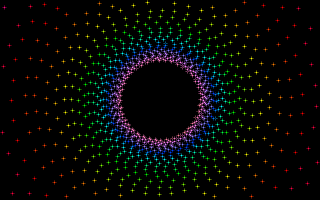
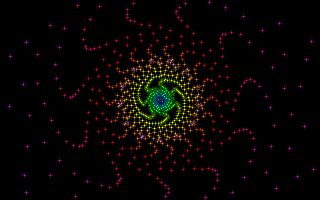
finish Jukebox funcs

diff --git a/src/main/java/mr/demonid/jukebox/JukeBox.java b/src/main/java/mr/demonid/jukebox/JukeBox.java
@@ -130,10 +130,9 @@ public class JukeBox {
         changeTime = rand.nextInt(1000);
 
         if (func <= 0) {
-            nGenFunc = rand.nextInt(15);     // 0..10
-        } else {
-            nGenFunc = min(func, 14);
+            func = rand.nextInt(15);     // 0..14
         }
+        nGenFunc = min(func, 14);
         if (nGenFunc == 1)
             AngleIncrement = 0.1f;
         if (AngleIncrement > 2.2f)
